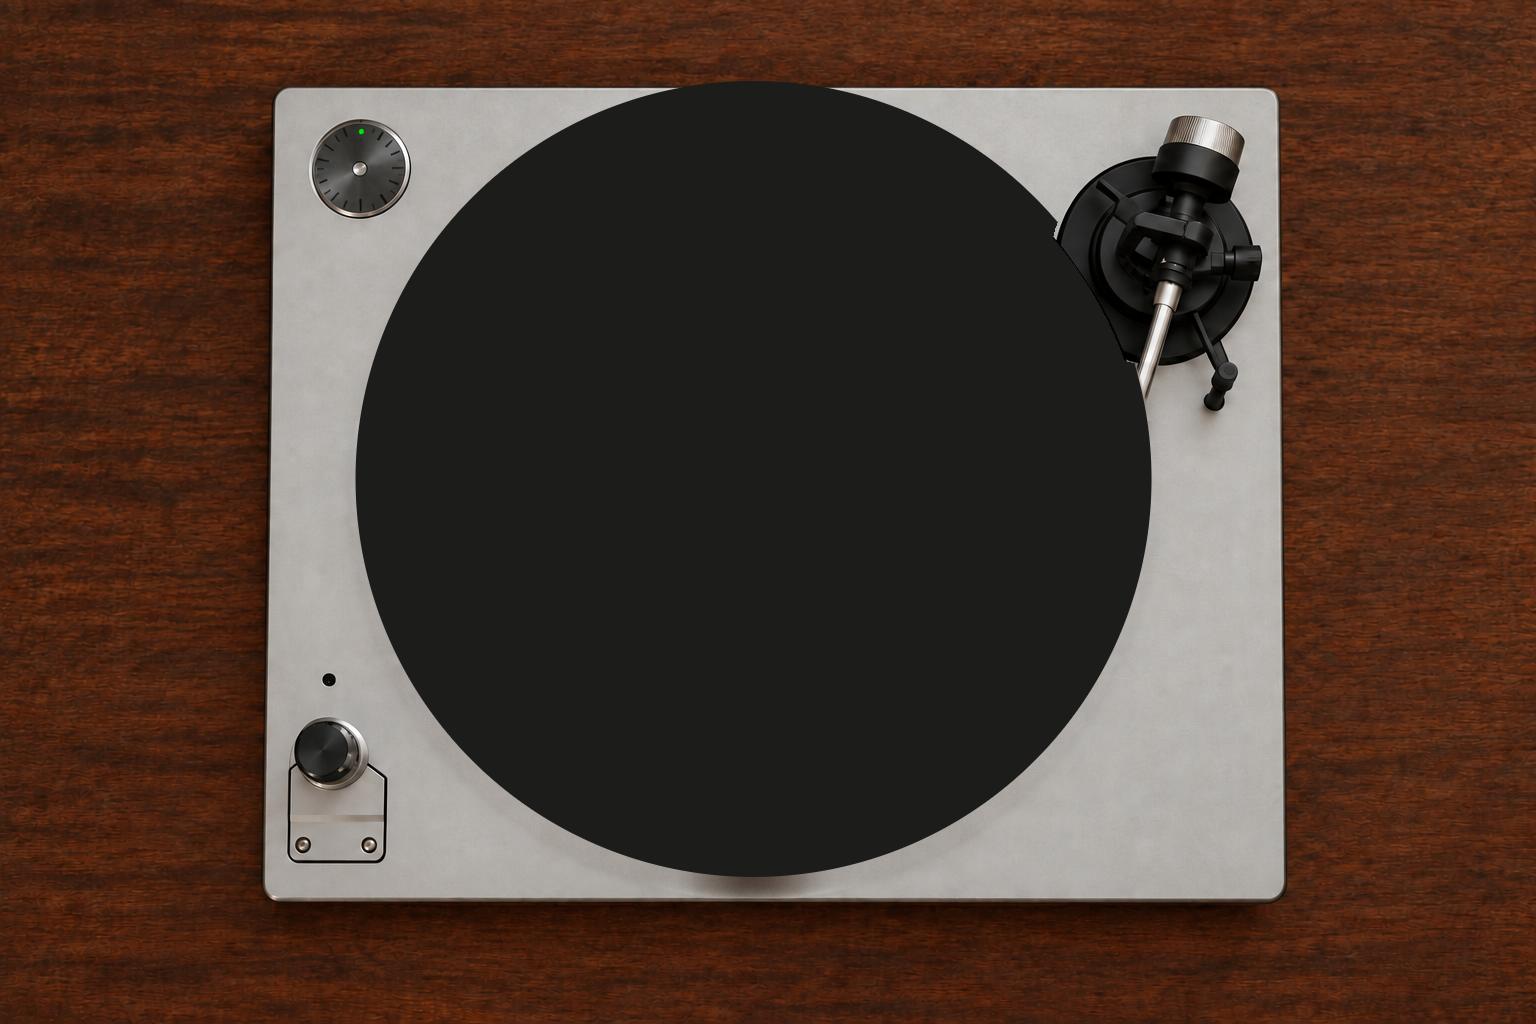
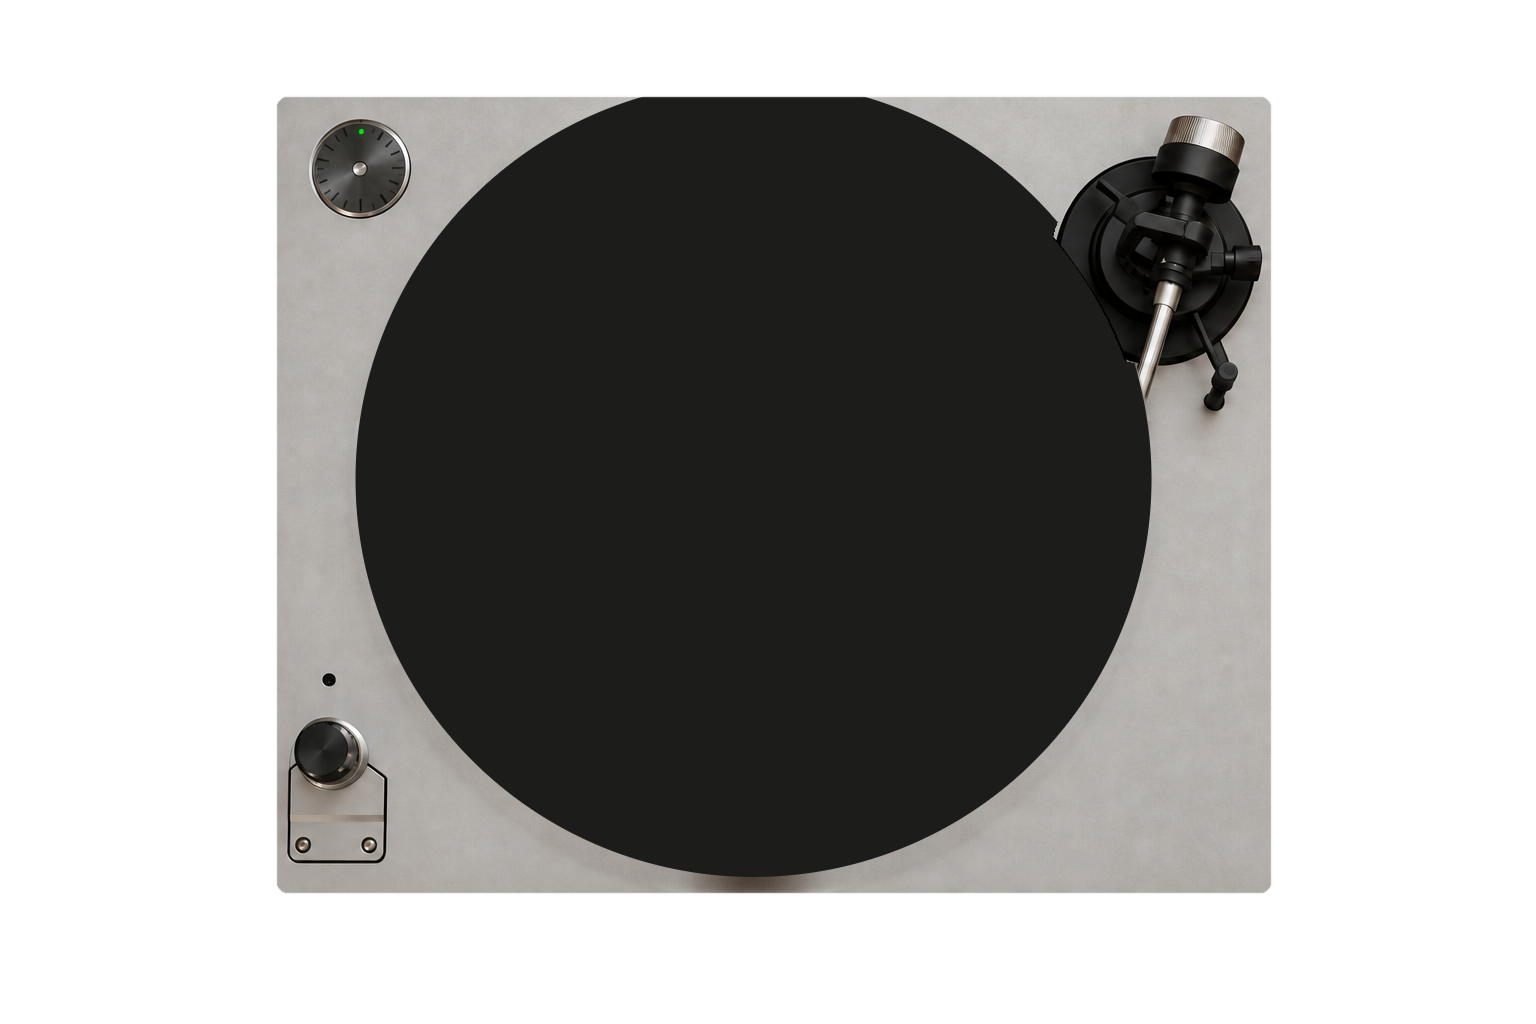
Remove the wood background from the turntable header.
The deck is cut out of the base layer, and the Phil Aesio page shows that cutout on a plain background.

diff --git a/turntable-layers/demo.html b/turntable-layers/demo.html
@@ -5,7 +5,7 @@
 <meta name="viewport" content="width=device-width, initial-scale=1" />
 <title>Turntable hero</title>
 <style>
-  body { margin: 0; background: #2a1810; }
+  body { margin: 0; background: #f6f4f1; }
   .turntable {
     position: relative;
     width: 100%;
@@ -13,6 +13,12 @@
     aspect-ratio: 1536 / 1024;
     margin: 0 auto;
     overflow: hidden;
+    -webkit-mask-image: url("01-base.png");
+    mask-image: url("01-base.png");
+    -webkit-mask-size: 100% 100%;
+    mask-size: 100% 100%;
+    -webkit-mask-repeat: no-repeat;
+    mask-repeat: no-repeat;
   }
   .turntable img {
     position: absolute;

diff --git a/phil-aesio.html b/phil-aesio.html
@@ -7,13 +7,19 @@
 <style>
   body {
     margin: 0;
-    background: #2a1810;
+    background: #f6f4f1;
   }
   .turntable {
     position: relative;
     width: 100%;
     aspect-ratio: 1536 / 1024;
     overflow: hidden;
+    -webkit-mask-image: url("turntable-layers/01-base.png");
+    mask-image: url("turntable-layers/01-base.png");
+    -webkit-mask-size: 100% 100%;
+    mask-size: 100% 100%;
+    -webkit-mask-repeat: no-repeat;
+    mask-repeat: no-repeat;
   }
   .turntable img {
     position: absolute;

diff --git a/turntable-layers/README.md b/turntable-layers/README.md
@@ -4,7 +4,7 @@ These images stack on top of each other. Every file is 1536×1024 and lines up w
 
 | File | What it is | Moves? |
 |---|---|---|
-| `01-base.png` | Wood, plinth, dials, tonearm pivot, empty black mat | No |
+| `01-base.png` | Plinth, dials, tonearm pivot, and empty black mat. The wood around the deck is transparent. | No |
 | `02-vinyl.png` | White record, see-through centre | Spins |
 | `03-label.png` | Cream label with the face logo | Spins |
 | `04-tonearm-spindle.png` | Tonearm, its shadow, and the centre pin | No |
